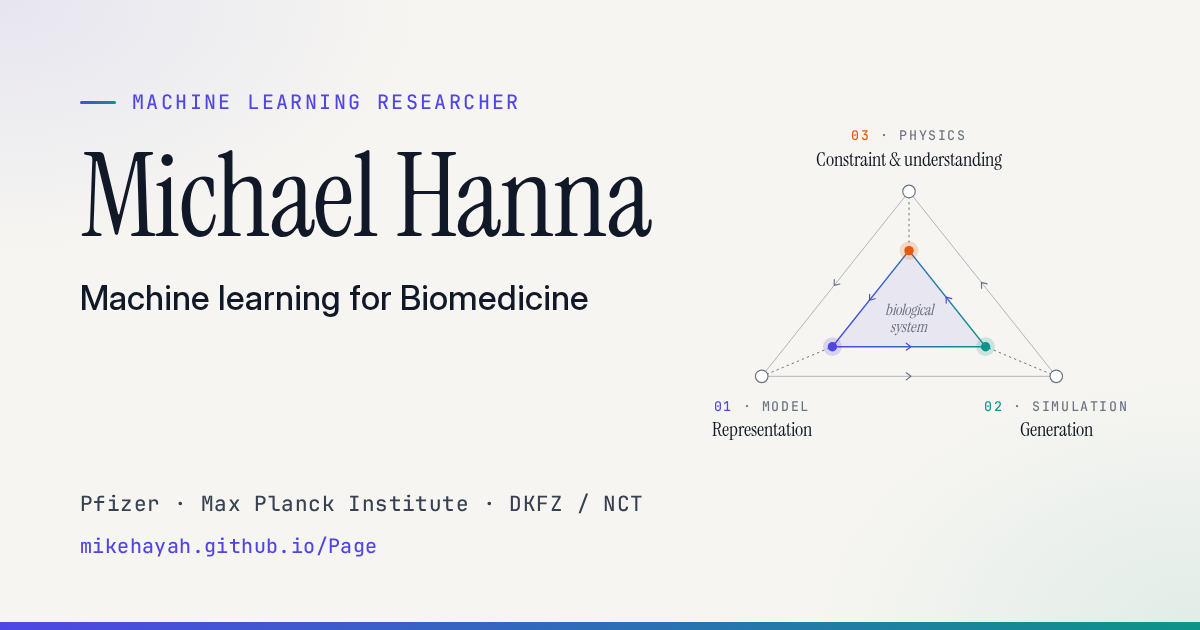
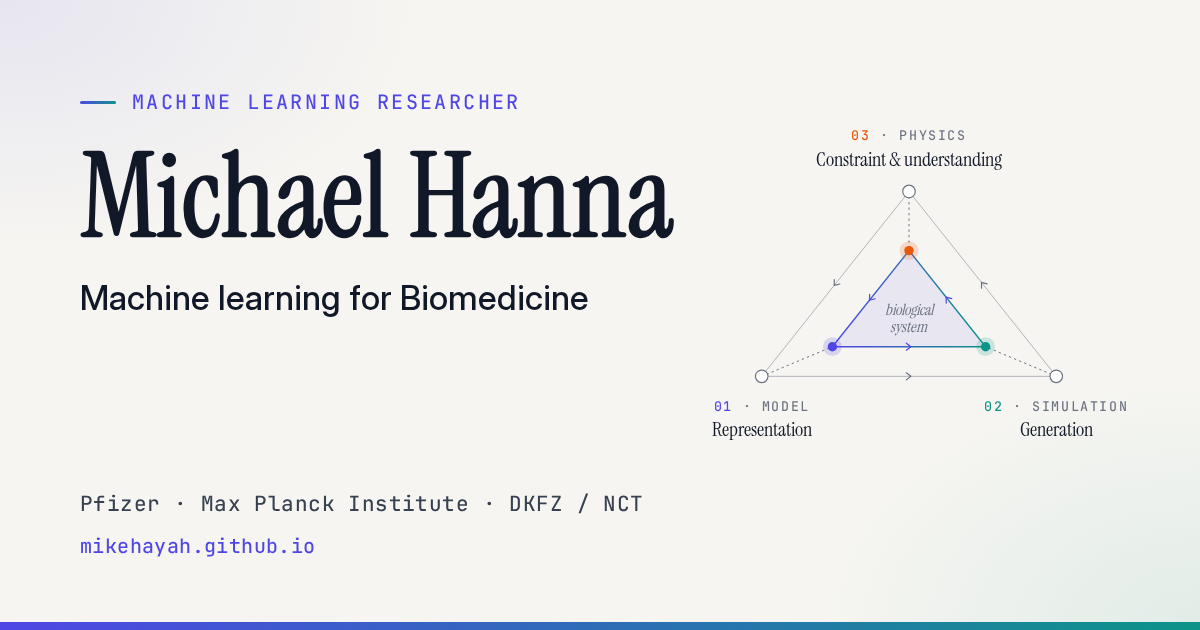
Serve the site from the mikehayah.github.io root
Point canonical, og:url, og:image and the structured-data URL at
https://mikehayah.github.io/, re-render the link-preview card with the new
address, and describe the site in the README.

Changed region(s): [[0.0617, 0.2413, 0.555, 0.3921], [0.2467, 0.8444, 0.3083, 0.8746]]

diff --git a/index.html b/index.html
@@ -10,12 +10,12 @@
     <link rel="preload" href="fonts/inter.woff2" as="font" type="font/woff2" crossorigin>
     <link rel="preload" href="fonts/instrument-serif.woff2" as="font" type="font/woff2" crossorigin>
     <link rel="preload" href="fonts/jetbrains-mono.woff2" as="font" type="font/woff2" crossorigin>
-    <link rel="canonical" href="https://mikehayah.github.io/Page/">
+    <link rel="canonical" href="https://mikehayah.github.io/">
     <meta property="og:type" content="profile">
-    <meta property="og:url" content="https://mikehayah.github.io/Page/">
+    <meta property="og:url" content="https://mikehayah.github.io/">
     <meta property="og:title" content="Michael Hanna — Machine Learning for Biomedicine">
     <meta property="og:description" content="Machine-learning models that represent biological systems, learn their dynamics and generate molecules where data are scarce — grounded in physics and mechanism.">
-    <meta property="og:image" content="https://mikehayah.github.io/Page/media/og-card.png">
+    <meta property="og:image" content="https://mikehayah.github.io/media/og-card.png">
     <meta property="og:image:width" content="1200">
     <meta property="og:image:height" content="630">
     <meta property="og:image:alt" content="Michael Hanna — Machine learning for Biomedicine, with the model–simulation–physics triangle.">
@@ -25,7 +25,7 @@
         "@context": "https://schema.org",
         "@type": "Person",
         "name": "Michael Hanna",
-        "url": "https://mikehayah.github.io/Page/",
+        "url": "https://mikehayah.github.io/",
         "jobTitle": "Machine Learning Researcher",
         "alumniOf": [
           { "@type": "CollegeOrUniversity", "name": "Technische Universität Dresden" },

diff --git a/README.md b/README.md
@@ -1,2 +1,21 @@
-# Page
-CV page
+# mikehayah.github.io
+
+Personal research website of Michael Hanna, live at **https://mikehayah.github.io/**.
+
+A static site (HTML, CSS and plain JavaScript, no build step) published by GitHub Pages from the `main` branch.
+
+| Path | Contents |
+|---|---|
+| `index.html`, `style.css`, `script.js` | The site |
+| `privacy.html` | Privacy notice |
+| `media/` | Project animations, the publication figure and the link-preview card (`og-card.png`) |
+| `fonts/` | Self-hosted Instrument Serif, Inter and JetBrains Mono, with their SIL Open Font License files |
+| `*.pdf` | Reference letters shown in the site's document viewer |
+
+To preview locally, serve the folder over HTTP (fonts don't load from `file://`):
+
+```sh
+python3 -m http.server 8000
+```
+
+then open http://localhost:8000.
